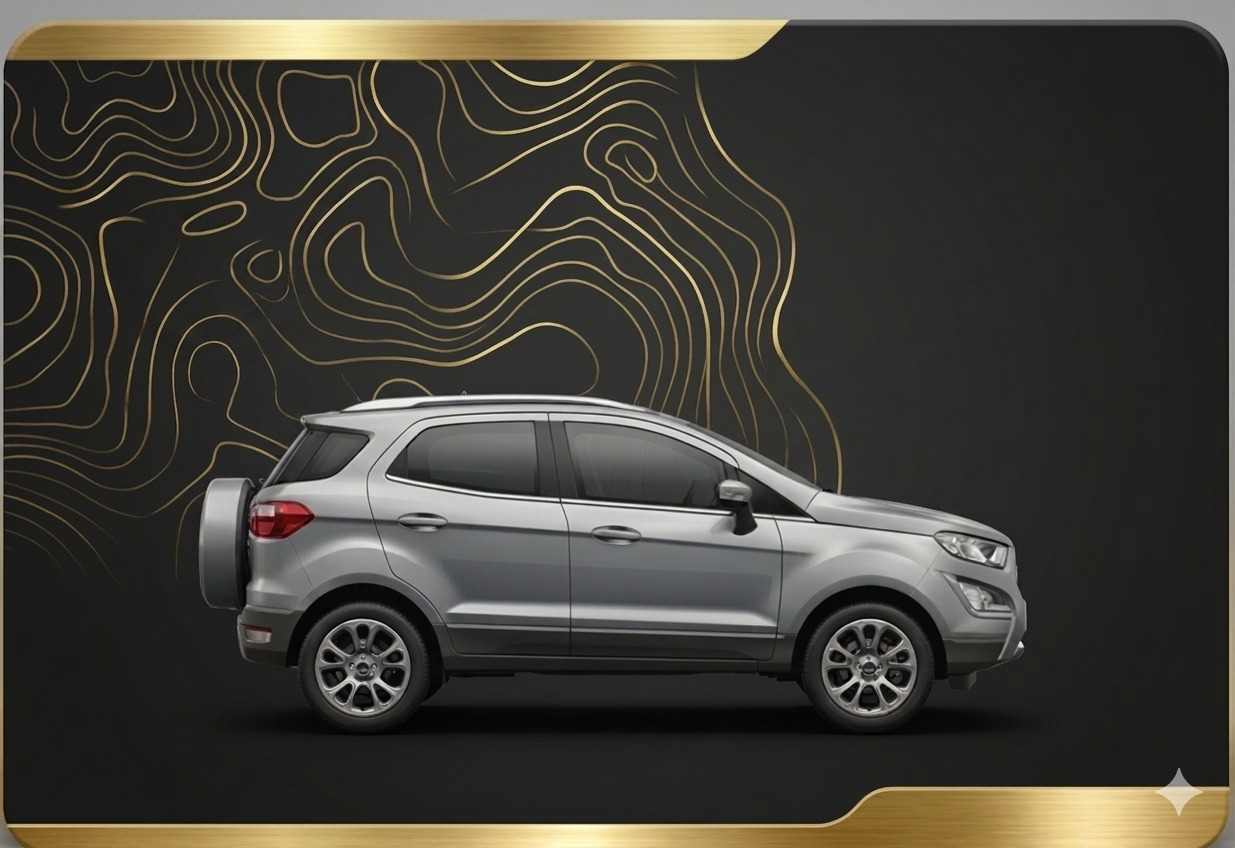
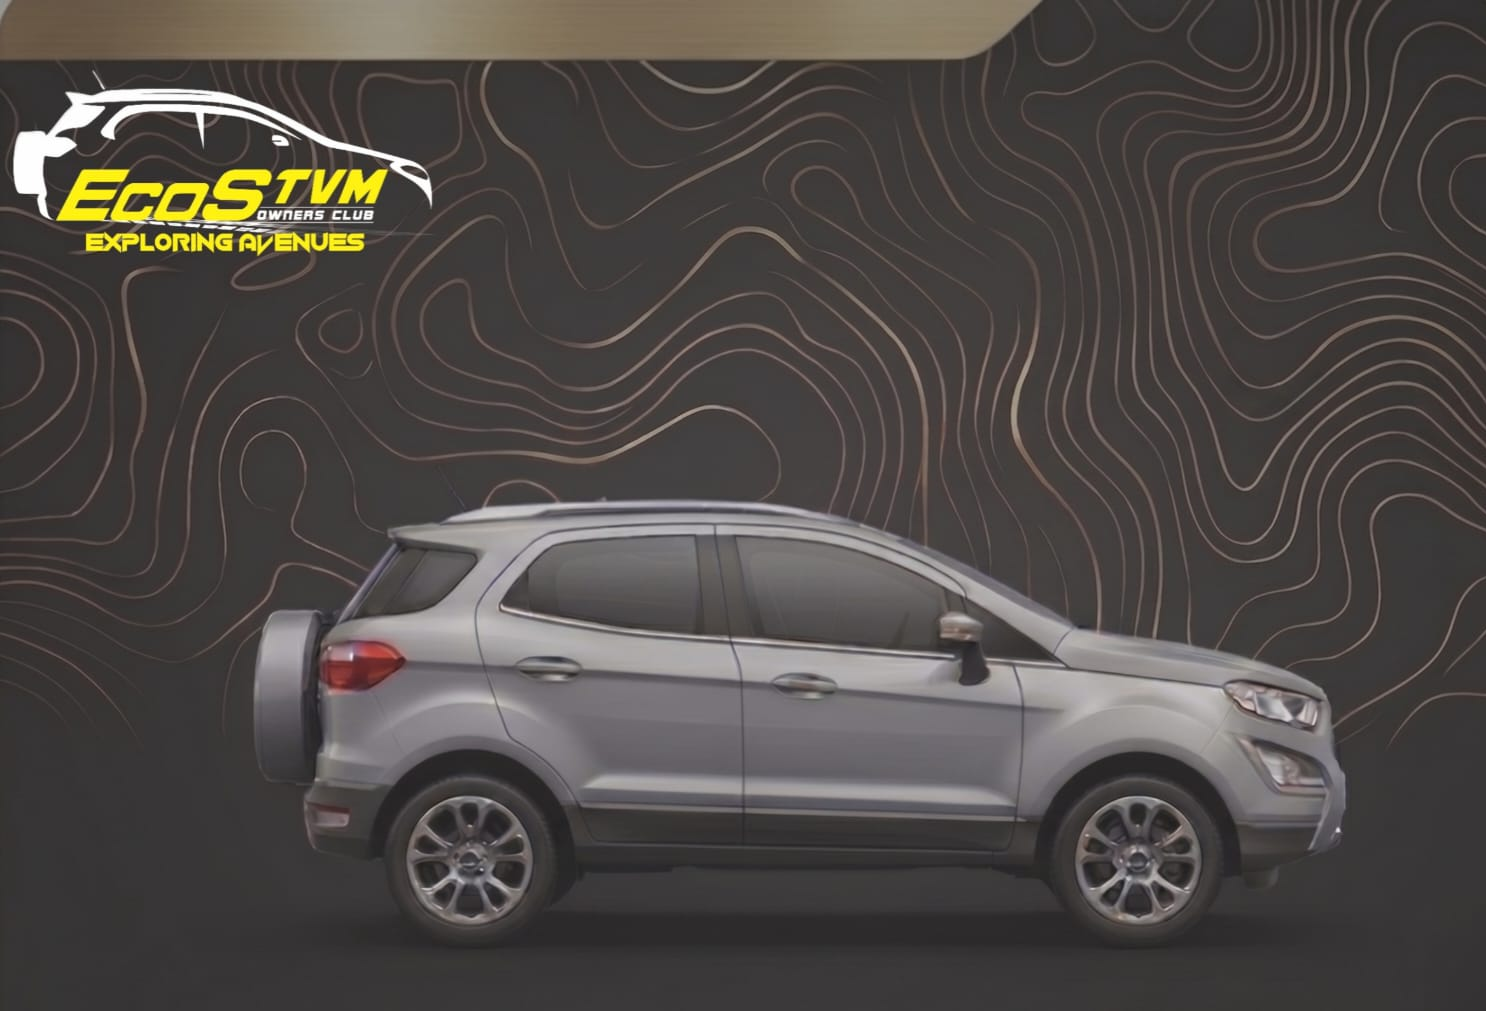
memebrship card

diff --git a/lib/membershipCard.ts b/lib/membershipCard.ts
@@ -16,51 +16,111 @@ function escapeXml(value: string): string {
 
 function getNameFontSize(name: string): number {
   const length = name.trim().length;
-  if (length <= 12) return 42;
-  if (length <= 20) return 36;
-  if (length <= 30) return 30;
-  return 26;
+  if (length <= 12) return 76;
+  if (length <= 20) return 66;
+  if (length <= 30) return 56;
+  return 48;
 }
 
-function buildMemberOverlay(name: string, membershipNumber: string): string {
+function getValueFontSize(value: string): number {
+  const length = value.trim().length;
+  if (length <= 10) return 46;
+  if (length <= 16) return 40;
+  return 34;
+}
+
+function buildMemberOverlay(name: string, membershipNumber: string, vehicleNumber: string): string {
   const safeName = escapeXml(name.trim() || "Member");
   const safeMembershipNumber = escapeXml(membershipNumber.trim() || "-");
+  const safeVehicleNumber = escapeXml(vehicleNumber.trim().toUpperCase() || "-");
   const nameFontSize = getNameFontSize(safeName);
+  const membershipFontSize = getValueFontSize(safeMembershipNumber);
+  const vehicleFontSize = getValueFontSize(safeVehicleNumber);
 
   return `
     <svg width="${CARD_WIDTH}" height="${CARD_HEIGHT}" viewBox="0 0 ${CARD_WIDTH} ${CARD_HEIGHT}" xmlns="http://www.w3.org/2000/svg">
       <defs>
         <filter id="label-shadow" x="-20%" y="-20%" width="140%" height="140%">
-          <feDropShadow dx="0" dy="3" stdDeviation="5" flood-color="rgba(0,0,0,0.5)" />
+          <feDropShadow dx="0" dy="5" stdDeviation="8" flood-color="#000000" flood-opacity="0.45" />
         </filter>
       </defs>
       <g filter="url(#label-shadow)">
-        <rect x="790" y="72" width="365" height="116" rx="18" fill="rgba(0,0,0,0.62)" stroke="#d7b56a" stroke-width="2" />
         <text
-          x="972"
-          y="119"
+          x="618"
+          y="382"
           text-anchor="middle"
           font-size="${nameFontSize}"
-          font-family="Arial, Helvetica, sans-serif"
+          font-family="Poppins, Arial, Helvetica, sans-serif"
           font-weight="800"
+          stroke="#101010"
+          stroke-width="5"
+          paint-order="stroke fill"
+          stroke-linejoin="round"
           fill="#fff9ea"
         >${safeName}</text>
+
         <text
-          x="972"
-          y="158"
-          text-anchor="middle"
-          font-size="25"
-          font-family="Arial, Helvetica, sans-serif"
+          x="400"
+          y="495"
+          text-anchor="start"
+          font-size="32"
+          font-family="Poppins, Arial, Helvetica, sans-serif"
           font-weight="700"
+          letter-spacing="1.2"
+          stroke="#101010"
+          stroke-width="3"
+          paint-order="stroke fill"
+          stroke-linejoin="round"
           fill="#d7b56a"
-        >Membership No: ${safeMembershipNumber}</text>
+        >MEMBERSHIP NO</text>
+        <text
+          x="835"
+          y="498"
+          text-anchor="middle"
+          font-size="${membershipFontSize}"
+          font-family="Poppins, Arial, Helvetica, sans-serif"
+          font-weight="800"
+          stroke="#101010"
+          stroke-width="4"
+          paint-order="stroke fill"
+          stroke-linejoin="round"
+          fill="#fff9ea"
+        >${safeMembershipNumber}</text>
+
+        <text
+          x="245"
+          y="636"
+          text-anchor="start"
+          font-size="46"
+          font-family="Poppins, Arial, Helvetica, sans-serif"
+          font-weight="700"
+          letter-spacing="1.2"
+          stroke="#101010"
+          stroke-width="4"
+          paint-order="stroke fill"
+          stroke-linejoin="round"
+          fill="#d7b56a"
+        >VEHICLE NO</text>
+        <text
+          x="650"
+          y="640"
+          text-anchor="start"
+          font-size="${vehicleFontSize}"
+          font-family="Poppins, Arial, Helvetica, sans-serif"
+          font-weight="900"
+          stroke="#101010"
+          stroke-width="5"
+          paint-order="stroke fill"
+          stroke-linejoin="round"
+          fill="#fff9ea"
+        >${safeVehicleNumber}</text>
       </g>
     </svg>
   `;
 }
 
-export async function renderMembershipCard(name: string, membershipNumber: string): Promise<Buffer> {
-  const overlay = Buffer.from(buildMemberOverlay(name, membershipNumber));
+export async function renderMembershipCard(name: string, membershipNumber: string, vehicleNumber: string): Promise<Buffer> {
+  const overlay = Buffer.from(buildMemberOverlay(name, membershipNumber, vehicleNumber));
 
   return sharp(TEMPLATE_PATH)
     .resize(CARD_WIDTH, CARD_HEIGHT)

diff --git a/app/api/logins/[id]/membership-card/route.ts b/app/api/logins/[id]/membership-card/route.ts
@@ -18,7 +18,7 @@ export async function GET(_request: Request, { params }: RouteContext) {
     return NextResponse.json({ error: "Member not found." }, { status: 404 });
   }
 
-  const image = await renderMembershipCard(member.name, member.membershipNumber);
+  const image = await renderMembershipCard(member.name, member.membershipNumber, member.vehicleNumber);
 
   return new NextResponse(new Uint8Array(image), {
     headers: {
@@ -41,7 +41,7 @@ export async function POST(_request: Request, { params }: RouteContext) {
       return NextResponse.json({ error: "Member WhatsApp number is missing or invalid." }, { status: 400 });
     }
 
-    const image = await renderMembershipCard(member.name, member.membershipNumber);
+    const image = await renderMembershipCard(member.name, member.membershipNumber, member.vehicleNumber);
     const messageId = await sendDirectImageWithRetry(
       phone,
       image,